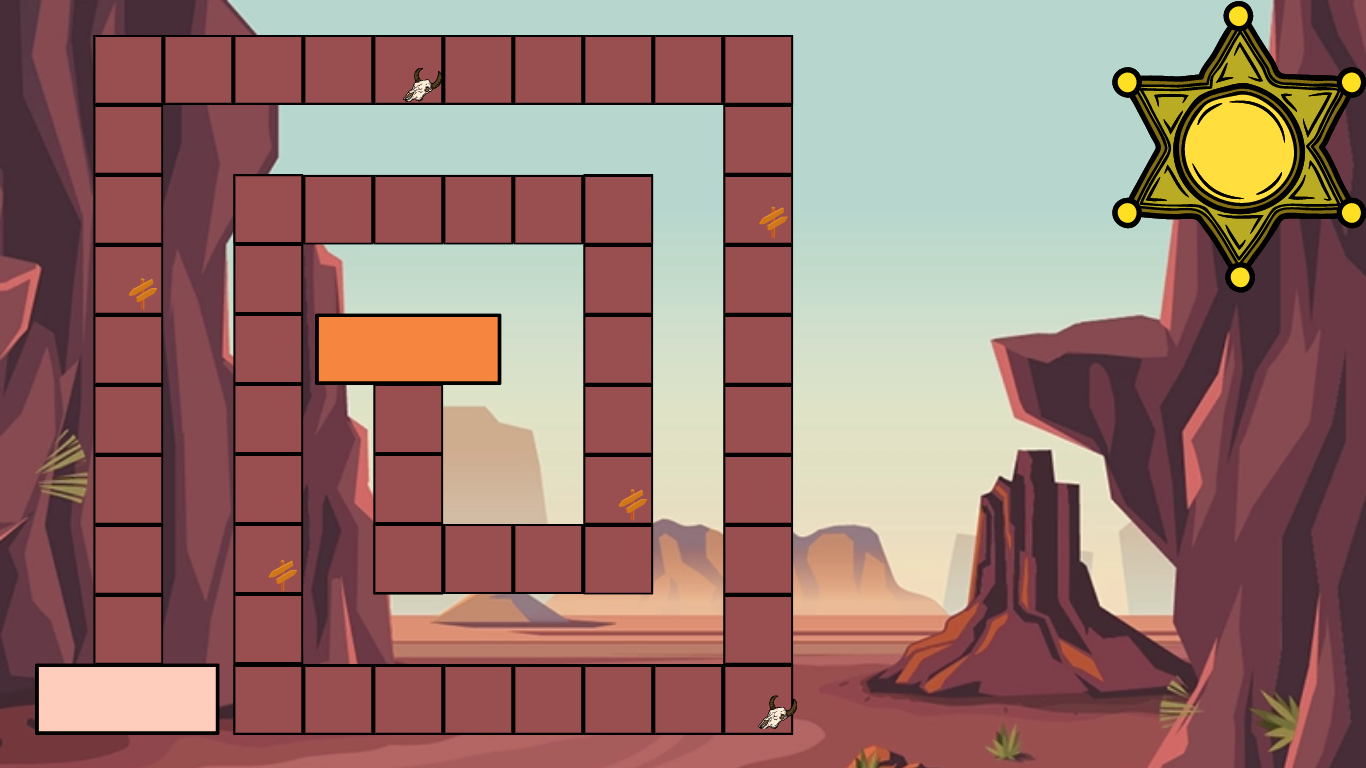
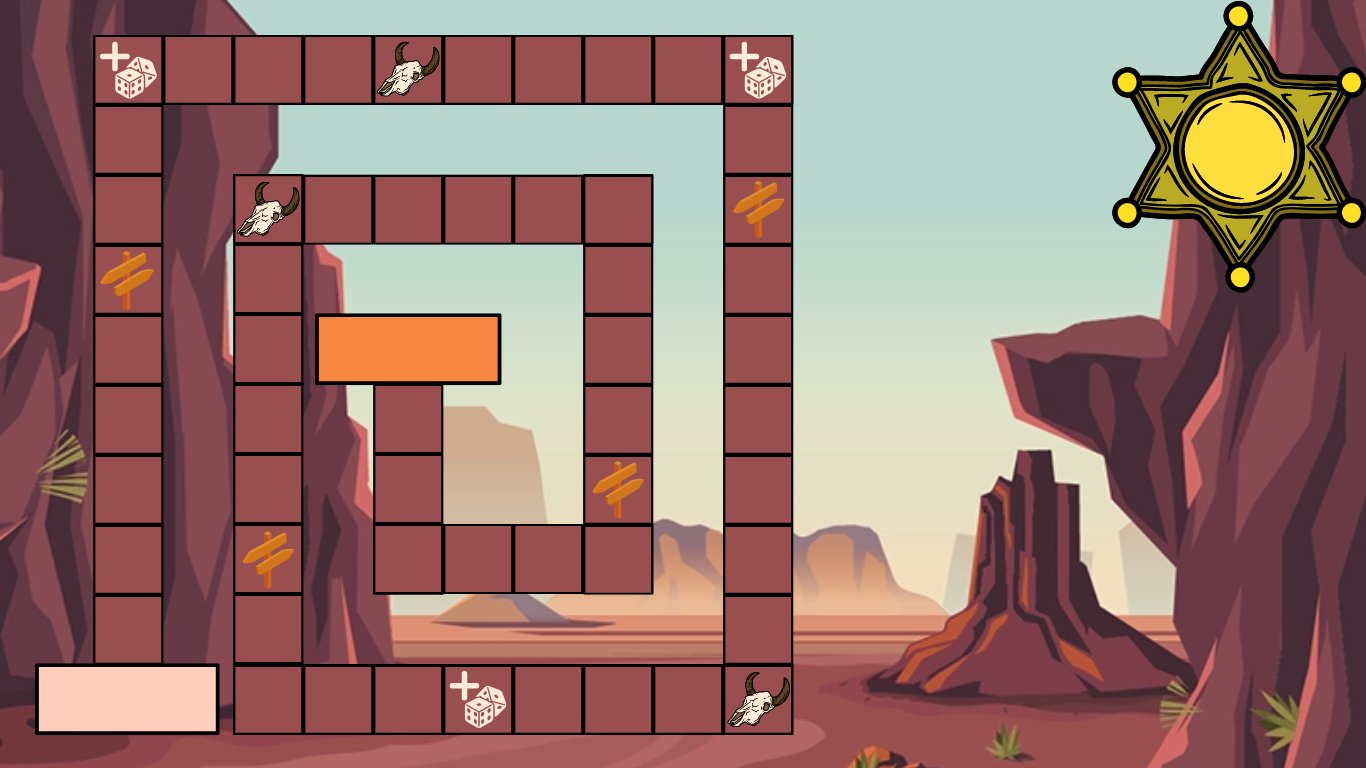
Dodanie funkcjonalności pola specjalnego - dodatkowego rzutu kostką

diff --git a/src/main/java/com/example/grapio/Board.java b/src/main/java/com/example/grapio/Board.java
@@ -13,7 +13,7 @@ import java.util.Objects;
 import java.util.Random;
 
 enum Effect {
-    BLOCKS, MOVES
+    BLOCKS, MOVES, ADDIT_THROW
 }
 
 class SpecialField {
@@ -51,7 +51,7 @@ class SpecialField {
 public class Board {
     private static final int FIELD_START_INDEX = 3;
     public static final int FIELD_META_INDEX = 57;
-    public static final int SPECIAL_FIELDS_NUMBER = 6;
+    public static final int SPECIAL_FIELDS_NUMBER = 9;
 
     public Board(List<ImageView> fieldsImg, int maxPlayers, List<PlayerClass> players, Label blockLabel) {
         setSpecialFields();
@@ -112,6 +112,10 @@ public class Board {
         return false;
     }
 
+    public void revertPlayer() {
+        whichPlayer = whichPlayer > 0 ? whichPlayer - 1 : maxPlayers - 1;
+    }
+
     private void updateLastFieldImage() {
         int position = players.get(whichPlayer).getPosition();
         if (position == 0) {
@@ -148,12 +152,13 @@ public class Board {
     public void tryMove(int move) {
         int positionToMove = players.get(whichPlayer).getPosition() + move;
         boolean blocked = false;
+        boolean additionalThrow = false;
         int additionalMove = 0;
 
         if (isSpecial(positionToMove)) {
             if (getEffect(positionToMove) == Effect.BLOCKS) {
                 blocked = true;
-            } else {
+            } else if (getEffect(positionToMove) == Effect.MOVES) {
                 if (getValue(positionToMove) == 1 || getValue(positionToMove) == -1)
                     blockLabel.setText("Przesuwasz się o " + getValue(positionToMove) + " pole");
                 else if (getValue(positionToMove) == 2 || getValue(positionToMove) == 3 || getValue(positionToMove) == 4 || getValue(positionToMove) == -2 || getValue(positionToMove) == -3 || getValue(positionToMove) == -4)
@@ -163,6 +168,9 @@ public class Board {
                 pause.setOnFinished(e -> blockLabel.setVisible(false));
                 pause.play();
                 additionalMove = getValue(positionToMove);
+            }
+            else if(getEffect(positionToMove) == Effect.ADDIT_THROW) {
+                additionalThrow = true;
             }
         }
 
@@ -193,6 +201,15 @@ public class Board {
 
         if (additionalMove != 0) {
             tryMove(additionalMove);
+            return;
+        }
+
+        if (additionalThrow){
+            blockLabel.setText("Dodatkowy rzut!");
+            blockLabel.setVisible(true);
+            pause.setOnFinished(e -> blockLabel.setVisible(false));
+            pause.play();
+            revertPlayer();
         }
     }
 
@@ -215,12 +232,15 @@ public class Board {
     private void setSpecialFields() {
         Random random = new Random();
         specialFields = new SpecialField[SPECIAL_FIELDS_NUMBER];
-        int[] indexes = {6, 13, 20, 27, 36, 50};
+        int[] indexes = {6, 9, 13, 18, 20, 27, 31, 36, 50};
         int[] movesFor = {-4, -3, -2, -1, 1, 2, 3, 4, 5, 6};
         for (int i = 0; i < SPECIAL_FIELDS_NUMBER; i++) {
 
             specialFields[i] = new SpecialField();
-            if (i % 2 != 0) {
+            if(indexes[i] == 9 || indexes[i] == 18 || indexes[i] == 31) {
+                specialFields[i].setEffect(Effect.ADDIT_THROW);
+                specialFields[i].setValue(0);
+            } else if (indexes[i] % 2 != 0) {
                 specialFields[i].setEffect(Effect.BLOCKS);
                 specialFields[i].setValue(random.nextInt(2) + 1);
             } else {
